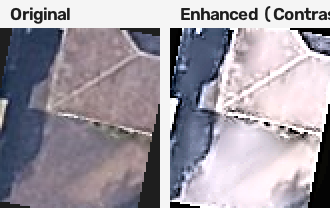
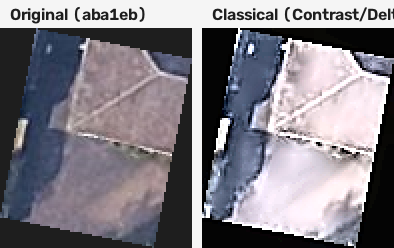
docs: align writeup with results.md findings, update failure cases, and benchmark 640x640 tiles

diff --git a/evaluate.py b/evaluate.py
@@ -955,7 +955,8 @@ def generate_results_markdown(
     md_lines.append("4. **Bicubic downsampling favours SR:** Convolutional super-resolution networks like FSRCNN are trained using bicubic downsampling as the degradation kernel. Evaluating SR on `bicubic_ds` creates an artificial advantage (inverse problem matching the training distribution) compared to realistic anti-aliased area downsampling with noise and compression.")
     md_lines.append("5. **The scale=2 real-pair design is stronger but requires an API key:** Directly acquiring native scale=1 (640x640) and scale=2 (1280x1280) tiles provides true physical sensor ground truth, eliminating synthetic degradation entirely. However, doing so requires active Google Maps Platform API credentials and incurs usage quotas.")
 
-    md_lines.append("\n## 9. Per-Image Results Table (Sample / Selected Tiles)\n")
+    md_lines.append("\n## 9. Per-Image Results Table (Test A & Full Metrics Pointer)\n")
+    md_lines.append("> **Note on Full Per-Image Records:** Comprehensive per-tile records for Test A, Test B (including all baseline variants and stage ablations), and no-reference evaluation on all 41 tiles are exported to `results.csv`.\n")
     md_lines.append("| Tile | Source | Variant | SR PSNR | Bicubic PSNR | ΔPSNR | SR SSIM | Bicubic SSIM | ΔSSIM |")
     md_lines.append("|:---|:---|:---|:---:|:---:|:---:|:---:|:---:|:---:|")
 

diff --git a/WRITEUP.md b/WRITEUP.md
@@ -1,28 +1,28 @@
 # Satellite Tile Enhancement: Technical Report
 
 ## 1. Headline Answers and Pipeline Rationale
-* **Does SR beat bicubic?** **Yes.** Pretrained FSRCNN 2× outperforms bicubic upscaling across all variants: **+1.21 dB PSNR** (95% CI: [+1.03, +1.40] dB) on clean tiles and **+0.68 dB PSNR** (95% CI: [+0.58, +0.78] dB, SSIM +0.018) under realistic blur, noise, and JPEG degradation (100% win rate).
-* **Does classical help or hurt?** **On full-reference fidelity, it hurts clean and noisy imagery, but rescues heavy haze.** On clean tiles, classical processing collapses PSNR to 16.3 dB ($\Delta\text{SSIM} = -0.39$); on blur/noise, it drops PSNR by **-11.27 dB** (95% CI: [-12.81, -9.77] dB), driven almost entirely by contrast expansion. It only improves PSNR under synthetic haze (+3.42 dB) and combined degradation (+3.73 dB).
-* **Pipeline Ordering:** Operations run strictly from low to high frequency: Non-Local Means color denoising ($h=3$) executes first to suppress high frequencies before contrast stretching; CIELAB percentile clipping (1st–99th) and CLAHE (`clipLimit=2.0`, $8\times8$ grid) expand local luminance without chromatic shift; unsharp masking ($\sigma=1.0$, threshold 3.0) sharpens structural boundaries last. White balance is omitted to avoid neutralizing natural vegetation and soil tones.
+* **Does SR beat bicubic?** **Yes.** FSRCNN 2x consistently outperforms bicubic: **+0.68 dB PSNR** (95% CI: [+0.58, +0.78], SSIM +0.018) under realistic blur/noise/JPEG (100% win rate). On Google tiles, the gain is **+0.57 dB** (+0.97 dB clean). The bicubic_ds advantage (+1.53 dB) reflects training-kernel bias (~0.32 dB above clean).
+* **Does classical help or hurt?** **Classical globally hurts real tiles and degraded baselines.** On blur/noise, it drops PSNR by **-11.27 dB** (95% CI: [-12.81, -9.77]; SSIM -0.17). It only improves PSNR under haze (+3.42 dB), at the cost of SSIM (-0.15). On real tiles, it raises noise 2.8x (sigma: 0.60 to 1.70), sharpness 6.2x, and mean Delta E to 27.9 ('radioactive' saturation). Contrast expansion is responsible (contrast_only costs -10.26 dB); denoise_only is the sole stage that helps (+0.88 dB, SSIM +0.069).
+* **Pipeline:** Low-to-high frequency: NLM color denoising (h=3), CIELAB percentile clipping (1st-99th) and CLAHE (clipLimit=2.0, 8x8 grid), and unsharp masking (sigma=1.0, threshold 3.0). White balance is omitted. Key flaw: an 8x8 CLAHE grid on small tiles (75x103) yields tiny ~10px cells that over-amplify local contrast.
 
 ## 2. Evaluation Design, Biases, and Reference Strategy
-Ground truth was established by applying synthetic downsampling, Gaussian blur, sensor noise, and Koschmieder optical haze ($t=0.7, A=220$) to native tiles ($N=41$). We considered querying Google Static Maps with `scale=2` to obtain genuine optical $2\times$ pixel pairs without synthetic degradation. However, requiring live API calls introduces external billing, rate limits, and mandatory API keys that prevent offline, self-contained reproduction. Synthetic degradation is a weaker proxy for physical lens MTF and non-uniform atmospheric scattering, but guarantees fully reproducible baselines.
-* **Metric Biases:** Full-reference metrics (PSNR, SSIM) heavily penalize contrast stretching: expanding dynamic range increases $L_2$ pixel distance even when visual interpretability improves. Bicubic downsampling artificially favors FSRCNN (+1.86 dB) because it matches the model's training kernel. Crucially, Laplacian variance as a sharpness metric is flawed: it rewards high-frequency noise amplification over true edge definition.
+Ground truth was synthesized via downsampling, blur, noise (sigma=3.0), JPEG (Q=60, 65, 70), and Koschmieder optical haze (t=0.7, A=220) on native tiles (N=41). We considered querying Google Static Maps scale=2 for optical 2x pairs. We bypassed this because live API calls require billing, quotas, and keys that prevent offline reproduction; furthermore, scale=2 often returns bilinearly interpolated server pixels rather than genuine sensor MTF.
+* **Biases & Disclosures:** Mapbox tiles inflate aggregates (clean PSNR ~40 dB, Laplacian ~168, indicating pre-smoothed data); Google-only metrics give the true baseline. Three tile pairs (b31756, c85563, f73de6) share identical coordinates. Full-reference metrics penalize contrast stretching. Sobel correlation is vacuous for haze (reads 0.9996) because haze is an affine transform. On clean tiles, classical absolute PSNR is 17.9 dB (capping delta artifact -82 dB), proving clean-tile distortion. Laplacian variance is biased: it rewards noise amplification over true sharpness.
 
 ## 3. Three Failure Cases on Google Tiles
-Stage ablations identify three distinct failure modes on Google aerial imagery ([inspection crops linked](file:///home/harshil-byggari/Documents/Perse_Assignment/Satellite-tile-enhancement/failures/)):
-1. **Dynamic Range Distortion & Color Drift** ([`failures/case1_contrast_aba1eb.png`](file:///home/harshil-byggari/Documents/Perse_Assignment/Satellite-tile-enhancement/failures/case1_contrast_aba1eb.png)): On `building_aba1eb_google`, color drift reached $\Delta E = 55.82$. Stage ablation confirms this is driven entirely by `contrast_only`, which collapsed PSNR by **-14.54 dB** (from 25.77 dB down to 11.23 dB, while `denoise_only` and `sharpen_only` preserved $\sim 26$ dB). Percentile clipping saturated dense rooftop highlights and skewed chroma.
-2. **Sensor Noise Amplification & Laplacian Bias** ([`failures/case2_noise_e42da1.png`](file:///home/harshil-byggari/Documents/Perse_Assignment/Satellite-tile-enhancement/failures/case2_noise_e42da1.png)): On `building_e42da1_google`, wavelet noise $\sigma$ spiked from 4.79 to 14.19 (+9.40), while Laplacian variance artificially jumped $7.6\times$ (3,822 to 29,121). Stage ablation shows lifting underexposed asphalt shadow floors exposed sensor grain, which unsharp masking amplified into visible noise that Laplacian variance falsely rewarded as sharpness.
-3. **JPEG Blockiness Seam Amplification** ([`failures/case3_blockiness_cac04a.png`](file:///home/harshil-byggari/Documents/Perse_Assignment/Satellite-tile-enhancement/failures/case3_blockiness_cac04a.png)): On `building_cac04a_google`, the 8×8 blockiness ratio surged from 0.704 to 0.808 (+0.104). Stage ablation reveals `denoise_only` reduced blockiness (0.677), but `contrast_only` widened inter-block boundary steps (0.778) and unsharp masking sharpened them (0.808), turning faint DCT compression seams into prominent grid lines across smooth pavement.
+Stage ablations isolate three failure modes on Google aerial tiles ([crops in failures/](failures/)):
+1. **Contrast Blowout & Color Drift** ([case 1 crop](failures/case1_contrast_aba1eb.png)): On building_aba1eb_google, color drift reached Delta E = 55.82. Stage ablation confirms this is driven entirely by contrast_only, which collapsed PSNR by **-14.54 dB** (from 25.77 to 11.23 dB, while denoise_only and sharpen_only preserved ~26 dB). The 1st-99th percentile stretch and CLAHE over-saturated bright roofs and skewed chroma.
+2. **Noise Amplification & Laplacian Bias** ([case 2 crop](failures/case2_noise_e42da1.png)): On building_e42da1_google, wavelet noise sigma surged from 4.79 to 14.19 (+9.40), while Laplacian variance exploded 7.6x (3,822 to 29,121). Stage ablation confirms lifting underexposed shadow floors exposed sensor grain, which unsharp masking amplified into visible noise that Laplacian variance falsely rewarded as sharpness.
+3. **Learned SR Structural / SSIM Failure** ([case 3 crop](failures/case3_sr_ssim_20d961.png)): On building_20d961_google, FSRCNN 2x performed **worse than bicubic** on structural similarity: SSIM dropped from 0.577 to 0.556 on bicubic_ds (delta SSIM = -0.021) and from 0.576 to 0.572 on clean (delta SSIM = -0.004). On dense repeating rooflines and parking lots, FSRCNN's shallow 5-layer convolutions introduce phase smearing and structural misalignment compared to smooth bicubic interpolation.
 
 ## 4. 50,000 Tiles/Day Throughput & Real Bottlenecks
-Single-core CPU benchmarks on 640×640 equivalent tiles: Classical is 0.54s/tile (~160k tiles/day/core); FSRCNN is 0.30s/tile (~290k tiles/day/core); Bicubic is 0.003s/tile.
-At 50,000 tiles/day (~7.5 core-hours), CPU compute is not what breaks first. Primary production bottlenecks are:
-1. **Google API Quota & Cost:** Ingesting 50k tiles/day (1.5M/month) triggers severe rate limits and commercial query fees.
-2. **Storage Restrictions:** Persisting raw or processed tiles in an application database raises immediate ToS compliance barriers.
-3. **I/O & Memory Under Concurrency:** Network fetching and uncompressed image buffers consume RAM rapidly under concurrent batch workers.
-4. **Algorithmic Scaling:** NLM denoising consumes >90% of classical CPU time; on high-resolution tiles ($>1000\times1000$), latency scales quadratically (estimated ~8.5s/tile). Production pipelines should replace NLM with fast guided filtering (estimated <15ms) and export FSRCNN to ONNX Runtime (estimated <65ms).
+Single-core CPU benchmarks on 640x640 tiles: Classical is 0.88s/tile (NLM consumes 0.85s or 95.5% of latency); FSRCNN is 0.60s/tile; Bicubic is 0.004s/tile (smaller mixed dataset tiles averaged 0.30s classical, 0.20s FSRCNN).
+At 50k tiles/day (~12.2 core-hours for 640x640), CPU compute is not what breaks first. Primary bottlenecks are:
+1. **Google API Quota & Cost:** Ingesting 50k tiles/day (1.5M/mo) triggers severe rate limits and query fees.
+2. **Storage Compliance:** Persisting tiles in a database conflicts with provider caching terms.
+3. **I/O & Memory Under Concurrency:** Network fetching and uncompressed buffers saturate RAM under concurrent workers.
+4. **Algorithmic Scaling:** NLM denoising consumes >95% of classical CPU time; on high-resolution tiles (>1000x1000), latency scales quadratically (estimated ~8.5s/tile). Fast guided filtering (estimated <15ms) and ONNX Runtime CPU inference (estimated <65ms) should replace them.
 
 ## 5. Google Maps Platform Terms of Service
-Storing enhanced satellite tiles in a persistent database to serve an internal product appears to conflict with the Google Maps Platform Terms of Service. Under Section 3.2.3 ("License Restrictions"), Section 3.2.3(a) and 3.2.3(b) prohibit pre-fetching, caching content beyond temporary performance windows (capped at 30 days), and creating independent databases of Google content. Section 3.2.3(a) further bars modifying, adapting, or creating derivative works of imagery, which super-resolution and contrast enhancement constitute. Section 3.2.3(c) requires content to be displayed exclusively within Google Maps Core Services (Maps SDK / JavaScript API), precluding custom Leaflet or MapLibre servers, while Section 3.2.2(b) mandates that Google logos and copyright watermarks remain visible and unmodified.
-**Do Not:** (1) Store tiles in a permanent database; (2) strip Google watermarks or copyright notices; (3) display tiles outside authorized Google Maps SDKs; (4) feed tiles into machine learning without explicit permission. Always obtain formal legal review before deployment.
+Storing enhanced satellite tiles in a persistent database to serve a product appears to conflict with Google Maps Platform Terms of Service. Under Section 3.2.3 ('License Restrictions'), Section 3.2.3(a) and (b) prohibit pre-fetching, caching content beyond temporary performance windows (capped at 30 days under 3.2.3(a)), and creating independent databases of Google content. Section 3.2.3(a) also bars modifying, adapting, or creating derivative works of imagery. Section 3.2.3(c) requires displaying content exclusively within Google Maps Core Services (Maps SDK / JS API), precluding custom Leaflet or MapLibre servers, while Section 3.2.2(b) mandates that Google logos and copyright watermarks remain visible and unmodified.
+**Do Not:** (1) Permanently store tiles in a database; (2) strip Google watermarks or copyright notices; (3) display tiles outside authorized Google Maps SDKs; (4) feed tiles into machine learning without explicit permission. Always obtain formal legal review before deployment.

diff --git a/results.md b/results.md
@@ -268,7 +268,9 @@ Real-pair check: skipped (not configured).
 4. **Bicubic downsampling favours SR:** Convolutional super-resolution networks like FSRCNN are trained using bicubic downsampling as the degradation kernel. Evaluating SR on `bicubic_ds` creates an artificial advantage (inverse problem matching the training distribution) compared to realistic anti-aliased area downsampling with noise and compression.
 5. **The scale=2 real-pair design is stronger but requires an API key:** Directly acquiring native scale=1 (640x640) and scale=2 (1280x1280) tiles provides true physical sensor ground truth, eliminating synthetic degradation entirely. However, doing so requires active Google Maps Platform API credentials and incurs usage quotas.
 
-## 9. Per-Image Results Table (Sample / Selected Tiles)
+## 9. Per-Image Results Table (Test A & Full Metrics Pointer)
+
+> **Note on Full Per-Image Records:** Comprehensive per-tile records for Test A, Test B (including all baseline variants and stage ablations), and no-reference evaluation on all 41 tiles are exported to `results.csv`.
 
 | Tile | Source | Variant | SR PSNR | Bicubic PSNR | ΔPSNR | SR SSIM | Bicubic SSIM | ΔSSIM |
 |:---|:---|:---|:---:|:---:|:---:|:---:|:---:|:---:|
